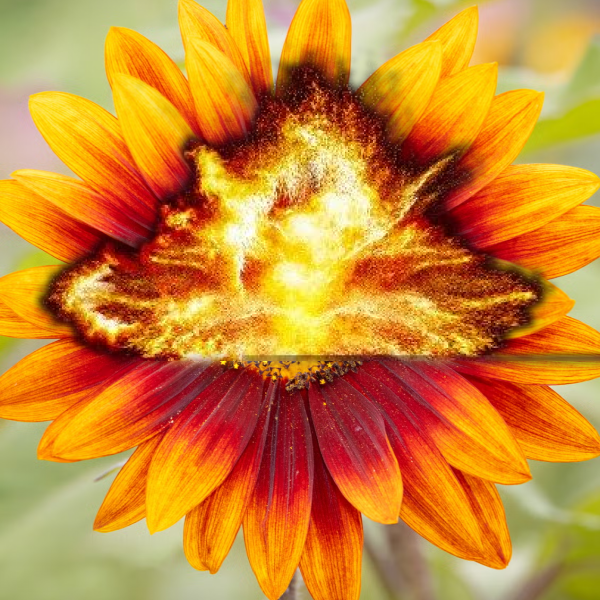
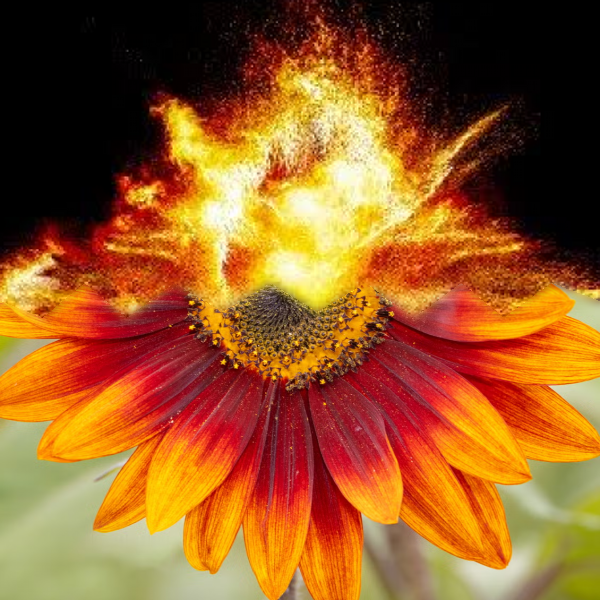
Refine sunflower explosion petal mask

diff --git a/projects/project2/index.html b/projects/project2/index.html
@@ -425,8 +425,8 @@ blend = sum(blended_laplacian)</code></pre>
           <article class="project-card">
             <div class="project-card-body">
               <h3>Irregular mask: sunflower and explosion</h3>
-              <p>For a non-linear mask, I used the sunflower’s petal ring to define an upper semicircle. The explosion replaces the upper flower region, while the original sunflower remains below the curved boundary. I also used the sunflower behind the dark background pixels of the explosion so the inserted region does not become a rectangular black patch.</p>
-              <pre><code>mask = semicircle_mask(sunflower.shape)
+              <p>For a non-linear mask, I traced a larger wavy boundary across the sunflower’s petal ring. The enlarged explosion fills the upper region from the top edge and can extend beyond the flower’s outer boundary, while the original sunflower remains below the traced curve.</p>
+              <pre><code>mask = petal_trace_mask(sunflower.shape)
 mask_stack = gaussian_stack(mask, 4)
 blend = multiresolution_blend(
     explosion, sunflower, mask
@@ -436,7 +436,7 @@ blend = multiresolution_blend(
         </div>
         <div class="source-plate-grid">
           <figure><img src="sunflower_explosion_prepared_inputs.png" alt="Prepared sunflower and explosion inputs"><figcaption>Prepared sunflower and explosion inputs</figcaption></figure>
-          <figure><img src="sunflower_explosion_semicircle_mask.png" alt="Semicircle mask following the upper petal region of the sunflower"><figcaption>Semicircle petal mask</figcaption></figure>
+          <figure><img src="sunflower_explosion_petal_mask.png" alt="Larger wavy mask traced from the sunflower petal region"><figcaption>Expanded petal-trace mask</figcaption></figure>
           <figure><img src="sunflower_explosion_laplacian_blend.png" alt="Laplacian stack contributions and combined levels for the sunflower and explosion blend"><figcaption>Laplacian-stack blending process</figcaption></figure>
           <figure><img src="sunflower_explosion_blend.png" alt="Final sunflower with an explosion blended into the upper semicircle"><figcaption>Final sunflower/explosion blend</figcaption></figure>
         </div>

diff --git a/projects/project2/blend.py b/projects/project2/blend.py
@@ -48,6 +48,44 @@ def semicircle_mask(shape, center=(0.5, 0.60), radius=(0.52, 0.54)):
     return np.repeat(upper_semicircle[:, :, None].astype(float), 3, axis=2)
 
 
+def petal_trace_mask(shape):
+    """Fill the area above a traced, wavy boundary following the petal ring."""
+    height, width = shape[:2]
+    trace = np.array([
+        (0.00, 0.50),
+        (0.07, 0.53),
+        (0.14, 0.47),
+        (0.21, 0.53),
+        (0.29, 0.47),
+        (0.37, 0.52),
+        (0.45, 0.47),
+        (0.53, 0.52),
+        (0.61, 0.47),
+        (0.69, 0.53),
+        (0.77, 0.47),
+        (0.84, 0.53),
+        (0.92, 0.47),
+        (1.00, 0.50),
+    ])
+    boundary = [(round(x * (width - 1)), round(y * (height - 1))) for x, y in trace]
+    polygon = [(0, 0), (width - 1, 0)] + list(reversed(boundary))
+    mask = np.zeros((height, width), dtype=np.uint8)
+    cv2.fillPoly(mask, [np.array(polygon, dtype=np.int32)], 1)
+    return np.repeat(mask[:, :, None].astype(float), 3, axis=2)
+
+
+def scale_center_crop(image, scale):
+    height, width = image.shape[:2]
+    resized = cv2.resize(
+        image,
+        (round(width * scale), round(height * scale)),
+        interpolation=cv2.INTER_CUBIC,
+    )
+    top = (resized.shape[0] - height) // 2
+    left = (resized.shape[1] - width) // 2
+    return resized[top:top + height, left:left + width]
+
+
 def remove_dark_background(foreground, background):
     """Keep bright explosion pixels and use the sunflower behind dark pixels."""
     brightness = np.max(foreground, axis=2)
@@ -170,8 +208,8 @@ plt.imsave(PROJECT_DIR / "lion_tiger_blend.png", lion_tiger)
 
 sunflower = prepare_image("sunflower.png")
 explosion = prepare_image("explosion.png")
-explosion = remove_dark_background(explosion, sunflower)
-sunflower_mask = semicircle_mask(sunflower.shape)
+explosion = scale_center_crop(explosion, 1.30)
+sunflower_mask = petal_trace_mask(sunflower.shape)
 sunflower_mask_stack = gaussian_stack(sunflower_mask, STACK_LEVELS)
 explosion_laplacian = laplacian_stack(gaussian_stack(explosion, STACK_LEVELS))
 flower_laplacian = laplacian_stack(gaussian_stack(sunflower, STACK_LEVELS))
@@ -188,7 +226,7 @@ save_pair(
     "Prepared sunflower",
     "Prepared explosion",
 )
-save_mask(sunflower_mask, "sunflower_explosion_semicircle_mask.png")
+save_mask(sunflower_mask, "sunflower_explosion_petal_mask.png")
 save_blend_process(
     explosion_laplacian,
     flower_laplacian,
